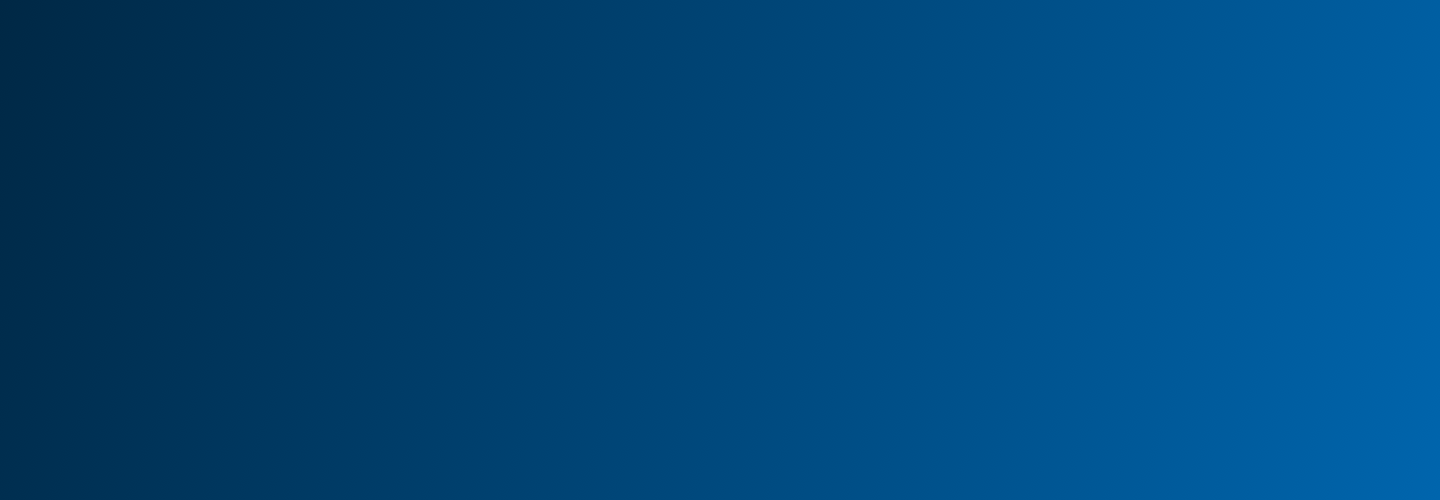
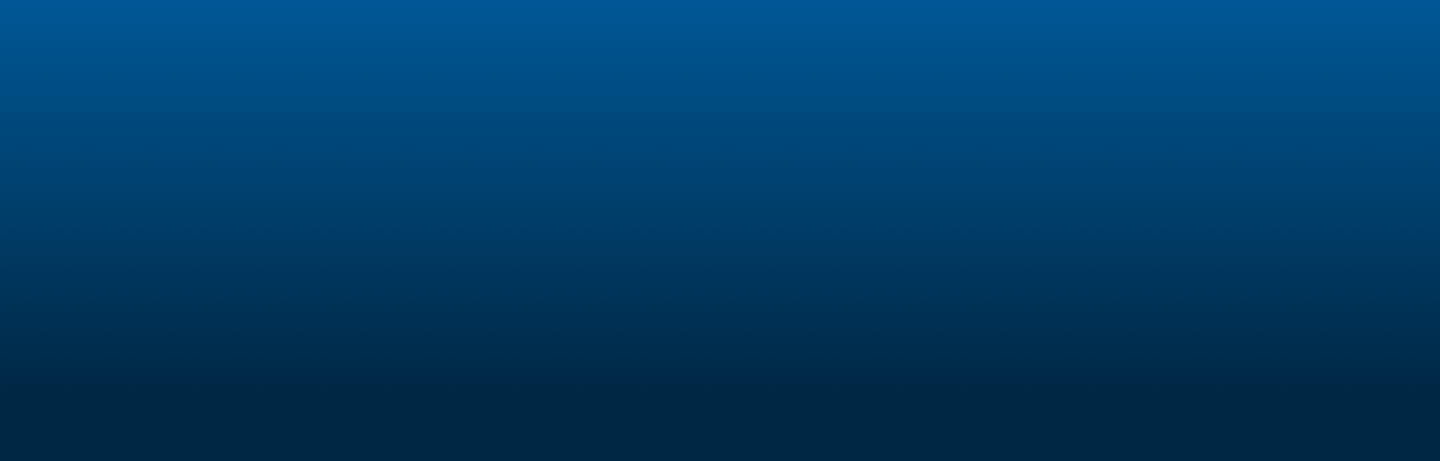
changes to content and add section clients and use case

diff --git a/css/main.min.css b/css/main.min.css
@@ -1,1 +1,1 @@
-button,hr,input{overflow:visible}progress,sub,sup{vertical-align:baseline}.unslider-fade,.unslider-wrap,sub,sup{position:relative}details,figure img{display:block}.footer ul,.unslider-nav ol{list-style:none}.about,.callToAction-col,.features--center,.home-main,.unslider-nav ol{text-align:center}html{line-height:1.15;-webkit-text-size-adjust:100%}h1{font-size:2em;margin:.67em 0}hr{-webkit-box-sizing:content-box;box-sizing:content-box;height:0}code,kbd,pre,samp{font-family:monospace,monospace;font-size:1em}a{background-color:transparent}abbr[title]{border-bottom:none;-webkit-text-decoration:underline dotted;text-decoration:underline dotted}.btn,.footer-item,.mainNav-item{text-decoration:none}b,strong{font-weight:bolder}small{font-size:80%}sub,sup{font-size:75%;line-height:0}sub{bottom:-.25em}sup{top:-.5em}img{border-style:none}button,input,optgroup,select,textarea{font-family:inherit;font-size:100%;line-height:1.15;margin:0}.unslider,textarea{overflow:auto}button,select{text-transform:none}.btn,.tag{text-transform:uppercase}[type=button],[type=reset],[type=submit],button{-webkit-appearance:button}[type=button]::-moz-focus-inner,[type=reset]::-moz-focus-inner,[type=submit]::-moz-focus-inner,button::-moz-focus-inner{border-style:none;padding:0}[type=button]-moz-focusring,[type=reset]-moz-focusring,[type=submit]-moz-focusring,button:-moz-focusring{outline:ButtonText dotted 1px}fieldset{padding:.35em .75em .625em}legend{-webkit-box-sizing:border-box;box-sizing:border-box;color:inherit;display:table;max-width:100%;padding:0;white-space:normal}[type=checkbox],[type=radio]{-webkit-box-sizing:border-box;box-sizing:border-box;padding:0}[type=number]::-webkit-inner-spin-button,[type=number]::-webkit-outer-spin-button{height:auto}[type=search]{-webkit-appearance:textfield;outline-offset:-2px}[type=search]::-webkit-search-decoration{-webkit-appearance:none}::-webkit-file-upload-button{-webkit-appearance:button;font:inherit}summary{display:list-item}[hidden],template{display:none}.unslider{margin:0;padding:0}.unslider-wrap.unslider-carousel>li{float:left}.unslider-vertical>ul{height:100%}.unslider-vertical li{float:none;width:100%}.unslider-fade .unslider-wrap li{position:absolute;left:0;top:0;right:0;z-index:8}.unslider-fade .unslider-wrap li.unslider-active{z-index:10}.unslider li,.unslider ol,.unslider ul{list-style:none;margin:0;padding:0;border:none}.unslider-arrow{left:20px;z-index:2;cursor:pointer}.unslider-arrow.next{left:auto}.title{font-size:1.25rem;color:#13293f;letter-spacing:0;line-height:30px;font-weight:400}.title--main{font-size:4rem;color:#fff;letter-spacing:-1px;line-height:80px;font-weight:300}@media only screen and (max-width:75rem){.title--main{font-size:3rem;line-height:50px}}.title--large{font-size:2.25rem;color:#008df2;letter-spacing:-.5px;line-height:39px}.tag,p{color:#13293f}@media only screen and (max-width:75rem){.title--large{font-size:1.7rem;line-height:30px}}p{font-size:1rem;letter-spacing:0;line-height:25px}.tag{font-size:.87rem;font-weight:700;letter-spacing:2px}.tag--primary{color:#008df2}.tag--highlight{color:#f0f000}.text--subhead{font-size:1.25rem;color:#13293f;letter-spacing:0;line-height:30px;font-weight:300}.btn,body{font-size:1rem}*,:after,:before{-webkit-box-sizing:border-box;box-sizing:border-box}body{margin:0;-webkit-font-smoothing:antialiased;font-family:Roboto,sans-serif;text-rendering:optimizeLegibility}figure{padding:0;margin:0}figure img{width:100%}.about{padding-left:calc(50% - (600px / 2));padding-right:calc(50% - (600px / 2));height:108vh;background:url(/img/eliot-about.png) center bottom no-repeat}@media only screen and (max-width:75rem){.text--subhead{font-size:1rem;line-height:25px}.about{padding-left:calc(50% - (80% / 2));padding-right:calc(50% - (80% / 2))}}.about .title{color:#008df2;padding-top:1rem}.btn{background-color:transparent;border:none;display:inline-block;border-radius:4px;font-weight:400;color:#fff;padding:.5rem 2rem}.btn--primary{color:#fff;background-color:#008df2}.btn--secondary{border:1px solid #fff}.callToAction{width:100%;display:-webkit-box;display:-ms-flexbox;display:flex;-webkit-box-pack:center;-ms-flex-pack:center;justify-content:center;-webkit-box-align:center;-ms-flex-align:center;align-items:center;position:relative;height:300px;margin-bottom:2rem}.callToAction-col{-webkit-box-align:center;-ms-flex-align:center;align-items:center}.feature{display:-webkit-box;display:-ms-flexbox;display:flex;-webkit-box-align:center;-ms-flex-align:center;align-items:center;-webkit-box-pack:justify;-ms-flex-pack:justify;justify-content:space-between;margin-bottom:1rem}@media only screen and (max-width:75rem){.feature{-webkit-box-orient:vertical;-webkit-box-direction:normal;-ms-flex-direction:column;flex-direction:column;-webkit-box-pack:center;-ms-flex-pack:center;justify-content:center;margin:2rem 0;padding-left:calc(50% - (90% / 2));padding-right:calc(50% - (90% / 2))}}.feature-description{width:calc(99.9% * 1/3 - (30px - 30px * 1/3))}.feature-description:nth-child(1n){float:left;margin-right:30px;clear:none}.feature-description:last-child{margin-right:0}.feature-description:nth-child(3n){margin-right:0;float:right}.feature-description:nth-child(3n+1){clear:both}@media only screen and (max-width:75rem){.feature-description{width:calc(99.9% * 3/3 - (30px - 30px * 3/3));padding-left:calc(50% - (90% / 2));padding-right:calc(50% - (90% / 2))}.feature-description:nth-child(1n){float:left;margin-right:30px;clear:none}.feature-description:last-child{margin-right:0}.feature-description:nth-child(3n){margin-right:0;float:right}.feature-description:nth-child(3n+1){clear:both}.feature-img{display:none}}.feature-img{width:calc(99.9% * 2/3 - (30px - 30px * 2/3))}.feature-img:nth-child(1n){float:left;margin-right:30px;clear:none}.feature-img:last-child{margin-right:0}.feature-img:nth-child(3n){margin-right:0;float:right}.feature-img:nth-child(3n+1){clear:both}.features{padding-left:calc(50% - (1140px / 2));padding-right:calc(50% - (1140px / 2));display:-webkit-box;display:-ms-flexbox;display:flex;-ms-flex-wrap:wrap;flex-wrap:wrap}.features h2{color:#0065ad}.features--center{display:inline-block;background:url(/img/eliot-collaboration.png) center bottom no-repeat #008df2;height:100vh;padding-top:2rem}.footer,.header{display:-webkit-box;display:-ms-flexbox}@media only screen and (max-width:75rem){.features--center{background:#008df2;height:60%;padding:4rem 0}}.features--center .title--large{color:#fff;font-weight:300}.features--center p{padding-left:calc(50% - (600px / 2));padding-right:calc(50% - (600px / 2));color:#fff}@media only screen and (max-width:75rem){.features--center p{padding-left:calc(50% - (90% / 2));padding-right:calc(50% - (90% / 2))}}.footer{padding-left:calc(50% - (1140px / 2));padding-right:calc(50% - (1140px / 2));display:flex;-ms-flex-wrap:wrap;flex-wrap:wrap;background-color:transparent;padding-top:1.5rem;padding-bottom:1.5rem;-webkit-box-align:center;-ms-flex-align:center;align-items:center;position:relative;overflow:hidden}.header,.mainNav{-webkit-box-align:center}@media only screen and (max-width:75rem){.footer{padding-left:calc(50% - (90% / 2))}}.footer ul{padding-left:0}.footer-item{color:#3e78b3}.footer-item:hover{color:#0f3b66}.footer:before{content:'';height:800px;background-color:#e6edf2;position:absolute;top:300px;left:0;right:0;-webkit-transform:skew(0,-12deg);transform:skew(0,-12deg);z-index:-100}.footer-col{padding-top:3%;width:calc(99.9% * 1/6 - (30px - 30px * 1/6))}.footer-col:nth-child(1n){float:left;margin-right:30px;clear:none}.footer-col:last-child{margin-right:0}.footer-col:nth-child(6n){margin-right:0;float:right}.footer-col:nth-child(6n+1){clear:both}@media only screen and (max-width:75rem){.footer-col{width:auto;padding-right:calc(50% - (90% / 2))}.footer-col:last-child,.footer-col:nth-child(1n),.footer-col:nth-child(1n+1){float:none;clear:none;margin-right:0;width:auto}}.footer-col--brand{margin-right:auto}.header{padding-left:calc(50% - (1140px / 2));padding-right:calc(50% - (1140px / 2));display:flex;-ms-flex-align:center;align-items:center;-webkit-box-pack:justify;-ms-flex-pack:justify;justify-content:space-between;position:fixed;top:2rem;right:0;left:0}@media only screen and (max-width:75rem){.header{padding-left:calc(50% - (90% / 2));padding-right:calc(50% - (90% / 2));height:auto}}.header.is-scrolled,.header.is-static{background-color:rgba(0,40,69,.8);top:0;padding-top:1rem;padding-bottom:1rem;z-index:1}.home-main{background-image:linear-gradient(45deg,#0065ad 0,#002845 100%);display:-webkit-box;display:-ms-flexbox;display:flex;-ms-flex-line-pack:center;align-content:center;height:100vh;padding-left:calc(50% - (1140px / 2));padding-right:calc(50% - (1140px / 2))}@media only screen and (max-width:75rem){.home-main{padding-left:calc(50% - (90% / 2));padding-right:calc(50% - (90% / 2))}}.home-main-description{margin:auto}.home-main-description .tag{color:#f0f000}.logo{display:block}.mainNav,.unslider-list{display:-webkit-box;display:-ms-flexbox}.logo--footer,.logo--header{max-width:100px}.mainNav{display:flex;-ms-flex-align:center;align-items:center}.social,.walkThrough{-webkit-box-align:center}.mainNav-item{margin-left:.75rem;margin-right:.75rem;color:#b8cfe6}.social{-ms-flex-align:center;align-items:center}.social-icon{margin-right:1.5rem}.unslider-nav{border-bottom:1px solid #fff;padding:2rem 0;position:absolute;top:0;left:0;right:0}.unslider-nav ol li{display:inline-block;cursor:pointer;color:#fff;margin-right:4rem;position:relative;z-index:2}.unslider-nav ol li::before{position:absolute;top:50%;left:-2.5rem;width:30px;height:30px;border-radius:100%;content:"";-webkit-transform:translateY(-50%);transform:translateY(-50%)}.unslider-nav ol li:nth-child(1):before{background:url(/img/icon-1.svg) 50% no-repeat,#fff}.unslider-nav ol li:nth-child(2):before{background:url(/img/icon-2.svg) 50% no-repeat,#fff}.unslider-nav ol li:nth-child(3):before{background:url(/img/icon-3.svg) 50% no-repeat,#fff}.unslider-nav ol li:nth-child(3){margin-right:0}.unslider-arrow{position:absolute;top:50%}@media only screen and (max-width:75rem){.unslider-nav{padding-left:2rem}.unslider-arrow{display:none}.unslider-list{margin-bottom:2rem}}.unslider-arrow.prev{left:-100px}.unslider-arrow.next{right:-100px}.unslider-active{font-weight:900}.unslider-list{display:flex;margin-top:2rem}.unslider-list .list{margin-right:2rem}.unslider-list .list li{margin-bottom:1rem}.walkThrough{background-color:#008df2;-ms-flex-align:center;align-items:center;padding-left:calc(50% - (1140px / 2));padding-right:calc(50% - (1140px / 2));display:-webkit-box;display:-ms-flexbox;display:flex}.walkThrough-description{-webkit-box-align:center;-ms-flex-align:center;align-items:center;width:calc(99.9% * 1/3 - (30px - 30px * 1/3));color:#fff}.walkThrough-description:nth-child(1n){float:left;margin-right:30px;clear:none}.walkThrough-description:last-child{margin-right:0}.walkThrough-description:nth-child(3n){margin-right:0;float:right}.walkThrough-description:nth-child(3n+1){clear:both}@media only screen and (max-width:75rem){.walkThrough{display:inherit}.walkThrough-description{width:calc(99.9% * 3/3 - (30px - 30px * 3/3));padding-left:calc(50% - (70% / 2));padding-right:calc(50% - (70% / 2))}.walkThrough-description:nth-child(1n){float:left;margin-right:30px;clear:none}.walkThrough-description:last-child{margin-right:0}.walkThrough-description:nth-child(3n){margin-right:0;float:right}.walkThrough-description:nth-child(3n+1){clear:both}.walkThrough-img{display:none}}.walkThrough-description h2{color:#fff;font-weight:300}.walkThrough-description p{color:#fff}.walkThrough-img{width:calc(99.9% * 2/3 - (30px - 30px * 2/3))}.walkThrough-img:nth-child(1n){float:left;margin-right:30px;clear:none}.walkThrough-img:last-child{margin-right:0}.walkThrough-img:nth-child(3n){margin-right:0;float:right}.walkThrough-img:nth-child(3n+1){clear:both}.walkThrough-img img{width:100%}.walkThrough-slider{position:relative}.walkThrough-slider>ul{margin-top:100px;display:-webkit-box;display:-ms-flexbox;display:flex}.walkThrough .unslider{position:relative;overflow:visible}
+button,hr,input{overflow:visible}progress,sub,sup{vertical-align:baseline}.unslider-fade,.unslider-wrap,sub,sup{position:relative}details,figure img{display:block}.footer ul,.unslider-nav ol{list-style:none}.about,.callToAction-col,.clients p,.features--center,.home-main,.unslider-nav ol{text-align:center}html{line-height:1.15;-webkit-text-size-adjust:100%}h1{font-size:2em;margin:.67em 0}hr{-webkit-box-sizing:content-box;box-sizing:content-box;height:0}code,kbd,pre,samp{font-family:monospace,monospace;font-size:1em}a{background-color:transparent}abbr[title]{border-bottom:none;-webkit-text-decoration:underline dotted;text-decoration:underline dotted}.btn,.footer-item,.mainNav-item{text-decoration:none}b,strong{font-weight:bolder}small{font-size:80%}sub,sup{font-size:75%;line-height:0}sub{bottom:-.25em}sup{top:-.5em}img{border-style:none}button,input,optgroup,select,textarea{font-family:inherit;font-size:100%;line-height:1.15;margin:0}.unslider,textarea{overflow:auto}button,select{text-transform:none}.btn,.tag{text-transform:uppercase}[type=button],[type=reset],[type=submit],button{-webkit-appearance:button}[type=button]::-moz-focus-inner,[type=reset]::-moz-focus-inner,[type=submit]::-moz-focus-inner,button::-moz-focus-inner{border-style:none;padding:0}[type=button]-moz-focusring,[type=reset]-moz-focusring,[type=submit]-moz-focusring,button:-moz-focusring{outline:ButtonText dotted 1px}fieldset{padding:.35em .75em .625em}legend{-webkit-box-sizing:border-box;box-sizing:border-box;color:inherit;display:table;max-width:100%;padding:0;white-space:normal}[type=checkbox],[type=radio]{-webkit-box-sizing:border-box;box-sizing:border-box;padding:0}[type=number]::-webkit-inner-spin-button,[type=number]::-webkit-outer-spin-button{height:auto}[type=search]{-webkit-appearance:textfield;outline-offset:-2px}[type=search]::-webkit-search-decoration{-webkit-appearance:none}::-webkit-file-upload-button{-webkit-appearance:button;font:inherit}summary{display:list-item}[hidden],template{display:none}.unslider{margin:0;padding:0}.unslider-wrap.unslider-carousel>li{float:left}.unslider-vertical>ul{height:100%}.unslider-vertical li{float:none;width:100%}.unslider-fade .unslider-wrap li{position:absolute;left:0;top:0;right:0;z-index:8}.unslider-fade .unslider-wrap li.unslider-active{z-index:10}.unslider li,.unslider ol,.unslider ul{list-style:none;margin:0;padding:0;border:none}.unslider-arrow{left:20px;z-index:2;cursor:pointer}.unslider-arrow.next{left:auto}.title{font-size:1.25rem;color:#13293f;letter-spacing:0;line-height:30px;font-weight:400}.title--main{font-size:4rem;color:#fff;letter-spacing:-1px;line-height:80px;font-weight:300}@media only screen and (max-width:75rem){.title--main{font-size:3rem;line-height:50px}}.title--large{font-size:2.25rem;color:#008df2;letter-spacing:-.5px;line-height:39px}.tag,p{color:#13293f}@media only screen and (max-width:75rem){.title--large{font-size:1.7rem;line-height:30px}}p{font-size:1rem;letter-spacing:0;line-height:25px}.tag{font-size:.87rem;font-weight:700;letter-spacing:2px}.tag--primary{color:#008df2}.tag--highlight{color:#f0f000}.text--subhead{font-size:1.25rem;color:#13293f;letter-spacing:0;line-height:30px;font-weight:300}.btn,body{font-size:1rem}*,:after,:before{-webkit-box-sizing:border-box;box-sizing:border-box}body{margin:0;-webkit-font-smoothing:antialiased;font-family:Roboto,sans-serif;text-rendering:optimizeLegibility}figure{padding:0;margin:0}figure img{width:100%}.about{padding-left:calc(50% - (600px / 2));padding-right:calc(50% - (600px / 2));height:108vh;background:url(/img/eliot-about.png) center bottom no-repeat}@media only screen and (max-width:75rem){.text--subhead{font-size:1rem;line-height:25px}.about{padding-left:calc(50% - (80% / 2));padding-right:calc(50% - (80% / 2))}}.about .title{color:#008df2;padding-top:3rem}.btn{background-color:transparent;border:none;display:inline-block;border-radius:4px;font-weight:400;color:#fff;padding:.5rem 2rem}.callToAction,.case{width:100%;display:-webkit-box;display:-ms-flexbox}.btn--primary{color:#fff;background-color:#008df2}.btn--secondary{border:1px solid #fff}.callToAction{display:flex;-webkit-box-pack:center;-ms-flex-pack:center;justify-content:center;-webkit-box-align:center;-ms-flex-align:center;align-items:center;position:relative;height:300px;margin-bottom:2rem}.callToAction-col{-webkit-box-align:center;-ms-flex-align:center;align-items:center}.case{display:flex;-webkit-box-pack:center;-ms-flex-pack:center;justify-content:center;-webkit-box-align:center;-ms-flex-align:center;align-items:center;padding:3rem 0 0}.clients,.clients-logos{display:-webkit-box;display:-ms-flexbox}.case h2{color:#0065ad}.clients{background-color:#0065ad;display:flex;-webkit-box-align:center;-ms-flex-align:center;align-items:center;-webkit-box-orient:vertical;-webkit-box-direction:normal;-ms-flex-direction:column;flex-direction:column;padding:2rem 0 6rem}.clients-logos{display:flex;-webkit-box-pack:justify;-ms-flex-pack:justify;justify-content:space-between;width:70%;-webkit-box-align:center;-ms-flex-align:center;align-items:center;margin-top:2rem}.clients p{width:30%;color:#fff}.feature{display:-webkit-box;display:-ms-flexbox;display:flex;-webkit-box-align:center;-ms-flex-align:center;align-items:center;-webkit-box-pack:justify;-ms-flex-pack:justify;justify-content:space-between;margin-bottom:1rem}@media only screen and (max-width:75rem){.feature{-webkit-box-orient:vertical;-webkit-box-direction:normal;-ms-flex-direction:column;flex-direction:column;-webkit-box-pack:center;-ms-flex-pack:center;justify-content:center;margin:2rem 0;padding-left:calc(50% - (90% / 2));padding-right:calc(50% - (90% / 2))}}.feature-description{width:calc(99.9% * 1/3 - (30px - 30px * 1/3))}.feature-description:nth-child(1n){float:left;margin-right:30px;clear:none}.feature-description:last-child{margin-right:0}.feature-description:nth-child(3n){margin-right:0;float:right}.feature-description:nth-child(3n+1){clear:both}@media only screen and (max-width:75rem){.feature-description{width:calc(99.9% * 3/3 - (30px - 30px * 3/3));padding-left:calc(50% - (90% / 2));padding-right:calc(50% - (90% / 2))}.feature-description:nth-child(1n){float:left;margin-right:30px;clear:none}.feature-description:last-child{margin-right:0}.feature-description:nth-child(3n){margin-right:0;float:right}.feature-description:nth-child(3n+1){clear:both}.feature-img{display:none}}.feature-img{width:calc(99.9% * 2/3 - (30px - 30px * 2/3))}.feature-img:nth-child(1n){float:left;margin-right:30px;clear:none}.feature-img:last-child{margin-right:0}.feature-img:nth-child(3n){margin-right:0;float:right}.feature-img:nth-child(3n+1){clear:both}.features{padding-left:calc(50% - (1140px / 2));padding-right:calc(50% - (1140px / 2));display:-webkit-box;display:-ms-flexbox;display:flex;-ms-flex-wrap:wrap;flex-wrap:wrap}.features h2{color:#0065ad}.features--center{display:inline-block;background:url(/img/eliot-collaboration.png) center bottom no-repeat #008df2;height:80vh;padding-top:2rem}.footer,.header{display:-webkit-box;display:-ms-flexbox}@media only screen and (max-width:75rem){.features--center{background:#008df2;height:60%;padding:4rem 0}}.features--center .title--large{color:#fff;font-weight:300}.features--center p{padding-left:calc(50% - (600px / 2));padding-right:calc(50% - (600px / 2));color:#fff}@media only screen and (max-width:75rem){.features--center p{padding-left:calc(50% - (90% / 2));padding-right:calc(50% - (90% / 2))}}.footer{padding-left:calc(50% - (1140px / 2));padding-right:calc(50% - (1140px / 2));display:flex;-ms-flex-wrap:wrap;flex-wrap:wrap;background-color:transparent;padding-top:1.5rem;padding-bottom:1.5rem;-webkit-box-align:center;-ms-flex-align:center;align-items:center;position:relative;overflow:hidden}.header,.mainNav{-webkit-box-align:center}@media only screen and (max-width:75rem){.footer{padding-left:calc(50% - (90% / 2))}}.footer ul{padding-left:0}.footer-item{color:#3e78b3}.footer-item:hover{color:#0f3b66}.footer:before{content:'';height:800px;background-color:#e6edf2;position:absolute;top:300px;left:0;right:0;-webkit-transform:skew(0,-12deg);transform:skew(0,-12deg);z-index:-100}.footer-col{padding-top:3%;width:calc(99.9% * 1/6 - (30px - 30px * 1/6))}.footer-col:nth-child(1n){float:left;margin-right:30px;clear:none}.footer-col:last-child{margin-right:0}.footer-col:nth-child(6n){margin-right:0;float:right}.footer-col:nth-child(6n+1){clear:both}@media only screen and (max-width:75rem){.footer-col{width:auto;padding-right:calc(50% - (90% / 2))}.footer-col:last-child,.footer-col:nth-child(1n),.footer-col:nth-child(1n+1){float:none;clear:none;margin-right:0;width:auto}}.footer-col--brand{margin-right:auto}.header{padding-left:calc(50% - (1140px / 2));padding-right:calc(50% - (1140px / 2));display:flex;-ms-flex-align:center;align-items:center;-webkit-box-pack:justify;-ms-flex-pack:justify;justify-content:space-between;position:fixed;top:2rem;right:0;left:0}@media only screen and (max-width:75rem){.header{padding-left:calc(50% - (90% / 2));padding-right:calc(50% - (90% / 2));height:auto}}.header.is-scrolled,.header.is-static{background-color:rgba(0,40,69,.8);top:0;padding-top:1rem;padding-bottom:1rem;z-index:1}.home-main{background-image:-webkit-gradient(linear,left bottom,left top,from(#0065ad),color-stop(85%,#002845));background-image:linear-gradient(0deg,#0065ad 0,#002845 85%);display:-webkit-box;display:-ms-flexbox;display:flex;-ms-flex-line-pack:center;align-content:center;height:100vh;padding-left:calc(50% - (1140px / 2));padding-right:calc(50% - (1140px / 2))}@media only screen and (max-width:75rem){.home-main{padding-left:calc(50% - (90% / 2));padding-right:calc(50% - (90% / 2))}}.home-main-description{margin:auto}.home-main-description .tag{color:#f0f000}.logo{display:block}.mainNav,.unslider-list{display:-webkit-box;display:-ms-flexbox}.logo--footer,.logo--header{max-width:100px}.mainNav{display:flex;-ms-flex-align:center;align-items:center}.social,.walkThrough{-webkit-box-align:center}.mainNav-item{margin-left:.75rem;margin-right:.75rem;color:#b8cfe6}.social{-ms-flex-align:center;align-items:center}.social-icon{margin-right:1.5rem}.unslider-nav{border-bottom:1px solid #fff;padding:2rem 0;position:absolute;top:0;left:0;right:0}.unslider-nav ol li{display:inline-block;cursor:pointer;color:#fff;margin-right:6rem;position:relative;z-index:2}.unslider-nav ol li::before{position:absolute;top:50%;left:-2.5rem;width:30px;height:30px;content:"";-webkit-transform:translateY(-50%);transform:translateY(-50%)}.unslider-nav ol li:nth-child(1):before{background:url(/img/icon-1.svg) 50% no-repeat}.unslider-nav ol li:nth-child(2):before{background:url(/img/icon-2.svg) 50% no-repeat}.unslider-nav ol li:nth-child(3):before{background:url(/img/icon-3.svg) 50% no-repeat}.unslider-nav ol li:nth-child(3){margin-right:0}.unslider-arrow{position:absolute;top:50%}@media only screen and (max-width:75rem){.unslider-nav{padding-left:2rem}.unslider-arrow{display:none}.unslider-list{margin-bottom:2rem}}.unslider-arrow.prev{left:-100px}.unslider-arrow.next{right:-100px}.unslider-active{font-weight:900}.unslider-list{display:flex;margin-top:2rem}.unslider-list .list{margin-right:2rem}.unslider-list .list li{margin-bottom:1rem}.walkThrough{background-color:#008df2;-ms-flex-align:center;align-items:center;padding-left:calc(50% - (1140px / 2));padding-right:calc(50% - (1140px / 2));display:-webkit-box;display:-ms-flexbox;display:flex}.walkThrough-description{-webkit-box-align:center;-ms-flex-align:center;align-items:center;width:calc(99.9% * 1/3 - (30px - 30px * 1/3));color:#fff}.walkThrough-description:nth-child(1n){float:left;margin-right:30px;clear:none}.walkThrough-description:last-child{margin-right:0}.walkThrough-description:nth-child(3n){margin-right:0;float:right}.walkThrough-description:nth-child(3n+1){clear:both}@media only screen and (max-width:75rem){.walkThrough{display:inherit}.walkThrough-description{width:calc(99.9% * 3/3 - (30px - 30px * 3/3));padding-left:calc(50% - (70% / 2));padding-right:calc(50% - (70% / 2))}.walkThrough-description:nth-child(1n){float:left;margin-right:30px;clear:none}.walkThrough-description:last-child{margin-right:0}.walkThrough-description:nth-child(3n){margin-right:0;float:right}.walkThrough-description:nth-child(3n+1){clear:both}.walkThrough-img{display:none}}.walkThrough-description h2{color:#fff;font-weight:300}.walkThrough-description p{color:#fff}.walkThrough-img{width:calc(99.9% * 2/3 - (30px - 30px * 2/3))}.walkThrough-img:nth-child(1n){float:left;margin-right:30px;clear:none}.walkThrough-img:last-child{margin-right:0}.walkThrough-img:nth-child(3n){margin-right:0;float:right}.walkThrough-img:nth-child(3n+1){clear:both}.walkThrough-img img{width:100%}.walkThrough-slider{position:relative}.walkThrough-slider>ul{margin-top:100px;display:-webkit-box;display:-ms-flexbox;display:flex}.walkThrough .unslider{position:relative;overflow:visible}

diff --git a/index.html b/index.html
@@ -43,20 +43,44 @@
     </div>
   </section>
 
+  <section class="clients">
+      <p class="title">Used by some of the most forward thinking manufacturing companies in the world</p>
+      <div class="clients-logos">
+        <a href="#0">
+          <img src="img/logo-heineken.png" alt="">
+        </a>
+
+        <a href="#0">
+          <img src="img/logo-deacero.png" alt="">
+        </a>
+
+        <a href="#0">
+          <img src="img/logo-prolec.png" alt="">
+        </a>
+
+        <a href="#0">
+          <img src="img/logo-emmsa.png" alt="">
+        </a>
+
+        <a href="#0">
+          <img src="img/logo-lagrange.png" alt="">
+        </a>
+      </div>
+  </section>
+
 	<section class="about">
 		<h2 class="title title--large" >Now is easier and faster than ever to move towards the smart factory</h2>
-		<p class="text text--subhead">We use state of the art technology to enable manufacturers to interact with top tier app developers to implement edge technology into their manufacturing process</p>
+		<p class="text text--subhead">We use state of the art technology to enable manufacturers to interact with top tier app developers to implement edge technology into their manufacturing process.</p>
   </section>
 
   <section class="walkThrough">
-
 		<div class="walkThrough-slider">
 			<ul>
 				<li data-nav="Setup">
           <div class="walkThrough-description">
             <p class="tag">SETUP</p>
             <h2 class="title title--large">Connect, analyze, control, optimize</h2>
-            <p class="features-content">Eliot allows you to develop super lean and easy to interact data architectures, it connects with all your data generating platforms and creates a central layer for other applications to use</p>
+            <p class="features-content">Valiot allows you to develop super lean and easy to interact data architectures, it connects with all your data generating platforms and creates a central layer for other applications to use.</p>
             <div class="unslider-list">
               <ul class="list">
                 <li>
@@ -94,26 +118,30 @@
               </ul>
             </div>
           </div>
+
 					<figure class="walkThrough-img">
 						<img src="/img/eliot-setup.png">
 					</figure>
 				</li>
+
 				<li data-nav="Configuration">
 					<div class="walkThrough-description">
 						<p class="tag">Marketplace</p>
 						<h2 class="title title--large">A marketplace for your smart factory</h2>
-						<p class="features-content">These applications open up to amazing possibilities for the use of Artifitial Intelligence, Industrial IOT, Augmented and virtual reality and other technologies to launch your company towards the digital era</p>
+						<p class="features-content">These applications open up to amazing possibilities for the use of Artifitial Intelligence, Industrial IOT, Augmented and virtual reality and other technologies to launch your company towards the digital era.</p>
 					</div>
 					<figure class="walkThrough-img">
 						<img src="/img/eliot-marketplace.png">
 					</figure>
 				</li>
+
 				<li data-nav="Admin">
 					<div class="walkThrough-description">
 						<p class="tag">Admin</p>
 						<h2 class="title title--large">Control your apps, control your Valiot, always safe.</h2>
-						<p class="features-content">Controling your user permissions allows you to control who can do and see everyhting</p>
+						<p class="features-content">Controling your user permissions allows you to control who can do and see everyhting.</p>
 					</div>
+
 					<figure class="walkThrough-img">
 						<img src="/img/eliot-admin.png">
 					</figure>
@@ -129,7 +157,7 @@
 			</figure>
 
       <div class="feature-description">
-        <p class="tag--primary">Easy to implement data layer</p>
+        <p class="tag tag--primary">Easy to implement data layer</p>
         <h2 class="title title--large">Data centralization for Real Time processing</h2>
         <p>Easily create a consistency data layer to conect all your data generation systems, such as CRMs, ERPs, WMS, MES, PLC, your production line among others.
         </p>
@@ -139,10 +167,10 @@
 
   	<div class="feature">
 			<div class="feature-description">
-				<p class="tag--primary">Easy to customize</p>
+				<p class="tag tag--primary">Easy to customize</p>
 				<h2 class="title title--large">Build your digital strategy according to your needs</h2>
 				<p>
-					Every company is different, we get that, and for that reason Valiot allows you to fully customize you platform to integrate only the apps you need to succeed in the new digital era
+					Every company is different, we get that, and for that reason Valiot allows you to fully customize you platform to integrate only the apps you need to succeed in the new digital era.
 				</p>
 			</div>
 			<figure class="feature-img">
@@ -155,9 +183,9 @@
 				<img src="/img/feature-cyber.png">
 			</figure>
 			<div class="feature-description">
-				<p class="tag--primary">Process traking like never before</p>
+				<p class="tag tag--primary">Process traking like never before</p>
 				<h2 class="title title--large">Cyber-physical systems and control</h2>
-				<p>Take complete control over your procesess and products, use high tech as your processes gatekeepers to eliminate mistakes, workarounds and hidden factories
+				<p>Take complete control over your procesess and products, use high tech as your processes gatekeepers to eliminate mistakes, workarounds and hidden factories.
 				</p>
 			</div>
   	</div>
@@ -165,7 +193,16 @@
 
   <section class="features features--center">
 		<h2 class="title title--large">Take part of the new industrial Revolution</h2>
-		<p class="text text--subhead">Digital technologies have taken over the world, and manufacturing is no exepction. Join the movement, connect with top tier tech developers, manufacturers and businessman to deliver high value to your enterprise</p>
+		<p class="text text--subhead">Digital technologies have taken over the world, and manufacturing is no exepction. Join the movement, connect with top tier tech developers, manufacturers and businessman to deliver high value to your enterprise.</p>
+  </section>
+
+  <section class="case">
+    <div class="feature-description">
+      <p class="tag tag--primary">Take a look</p>
+      <h2 class="title title--large">Using technology we empower manufacturers to challeng the S.Q.</h2>
+    </div>
+
+    <img src="img/image-usecase.png" alt="">
   </section>
 
   <!-- <section class="customers">
@@ -193,31 +230,11 @@
     </div>
 
     <div class="footer-col--brand">
-			<a class="logo" href=""><img class="logo--footer" src="/img/eliot-logo-color.png"></a>
+			<a class="logo" href=""><img class="logo--footer" src="/img/valiot-logo-color.png"></a>
 			<p>@ 2018 Valiot.</p>
 			<p>All rights reserved.</p>
 		</div>
-		<div class="footer-col">
-			<!-- <p>MARKETPLACE</p>
-			<ul>
-				<li><a class="footer-item" href="">Link 1</a></li>
-				<li><a class="footer-item" href="">Link 2</a></li>
-			</ul>
-		</div>
-		<div class="footer-col">
-			<p>DEVELOPERS</p>
-			<ul>
-				<li><a class="footer-item" href="">Documentation</a></li>
-				<li><a class="footer-item" href="">API Status</a></li>
-			</ul>
-		</div>
-		<div class="footer-col">
-			<p>LEGAL</p>
-			<ul>
-				<li><a class="footer-item" href="">Terms of service</a></li>
-				<li><a class="footer-item" href="">Privacy Policy</a></li>
-			</ul>
-		</div> -->
+
 		<div class="footer-col">
 			<p>CONTACT</p>
 			<!--Should I leave this li out of the ul?-->

diff --git a/css/main.css b/css/main.css
@@ -295,7 +295,7 @@ figure img {
 }
 .about .title {
   color: #008df2;
-  padding-top: 1rem;
+  padding-top: 3rem;
 }
 .btn {
   background-color: transparent;
@@ -336,6 +336,54 @@ figure img {
   -webkit-box-align: center;
       -ms-flex-align: center;
           align-items: center;
+}
+.case {
+  width: 100%;
+  display: -webkit-box;
+  display: -ms-flexbox;
+  display: flex;
+  -webkit-box-pack: center;
+      -ms-flex-pack: center;
+          justify-content: center;
+  -webkit-box-align: center;
+      -ms-flex-align: center;
+          align-items: center;
+  padding: 3rem 0 0 0;
+}
+.case h2 {
+  color: #0065ad;
+}
+.clients {
+  background-color: #0065ad;
+  display: -webkit-box;
+  display: -ms-flexbox;
+  display: flex;
+  -webkit-box-align: center;
+      -ms-flex-align: center;
+          align-items: center;
+  -webkit-box-orient: vertical;
+  -webkit-box-direction: normal;
+      -ms-flex-direction: column;
+          flex-direction: column;
+  padding: 2rem 0 6rem 0;
+}
+.clients-logos {
+  display: -webkit-box;
+  display: -ms-flexbox;
+  display: flex;
+  -webkit-box-pack: justify;
+      -ms-flex-pack: justify;
+          justify-content: space-between;
+  width: 70%;
+  -webkit-box-align: center;
+      -ms-flex-align: center;
+          align-items: center;
+  margin-top: 2rem;
+}
+.clients p {
+  width: 30%;
+  text-align: center;
+  color: #fff;
 }
 .feature {
   display: -webkit-box;
@@ -442,7 +490,7 @@ figure img {
   display: inline-block;
   text-align: center;
   background: #008df2 url("/img/eliot-collaboration.png") no-repeat center bottom;
-  height: 100vh;
+  height: 80vh;
   padding-top: 2rem;
 }
 @media only screen and (max-width: 75rem) {
@@ -591,7 +639,8 @@ figure img {
   z-index: 1;
 }
 .home-main {
-  background-image: linear-gradient(45deg, #0065ad 0%, #002845 100%);
+  background-image: -webkit-gradient(linear, left bottom, left top, from(#0065ad), color-stop(85%, #002845));
+  background-image: linear-gradient(0deg, #0065ad 0%, #002845 85%);
   display: -webkit-box;
   display: -ms-flexbox;
   display: flex;
@@ -667,7 +716,7 @@ figure img {
   display: inline-block;
   cursor: pointer;
   color: #fff;
-  margin-right: 4rem;
+  margin-right: 6rem;
   position: relative;
   z-index: 2;
 }
@@ -677,19 +726,18 @@ figure img {
   left: -2.5rem;
   width: 30px;
   height: 30px;
-  border-radius: 100%;
   content: "";
   -webkit-transform: translateY(-50%);
           transform: translateY(-50%);
 }
 .unslider-nav ol li:nth-child(1):before {
-  background: url("/img/icon-1.svg") 50% no-repeat, #fff;
+  background: url("/img/icon-1.svg") 50% no-repeat;
 }
 .unslider-nav ol li:nth-child(2):before {
-  background: url("/img/icon-2.svg") 50% no-repeat, #fff;
+  background: url("/img/icon-2.svg") 50% no-repeat;
 }
 .unslider-nav ol li:nth-child(3):before {
-  background: url("/img/icon-3.svg") 50% no-repeat, #fff;
+  background: url("/img/icon-3.svg") 50% no-repeat;
 }
 .unslider-nav ol li:nth-child(3) {
   margin-right: 0;
